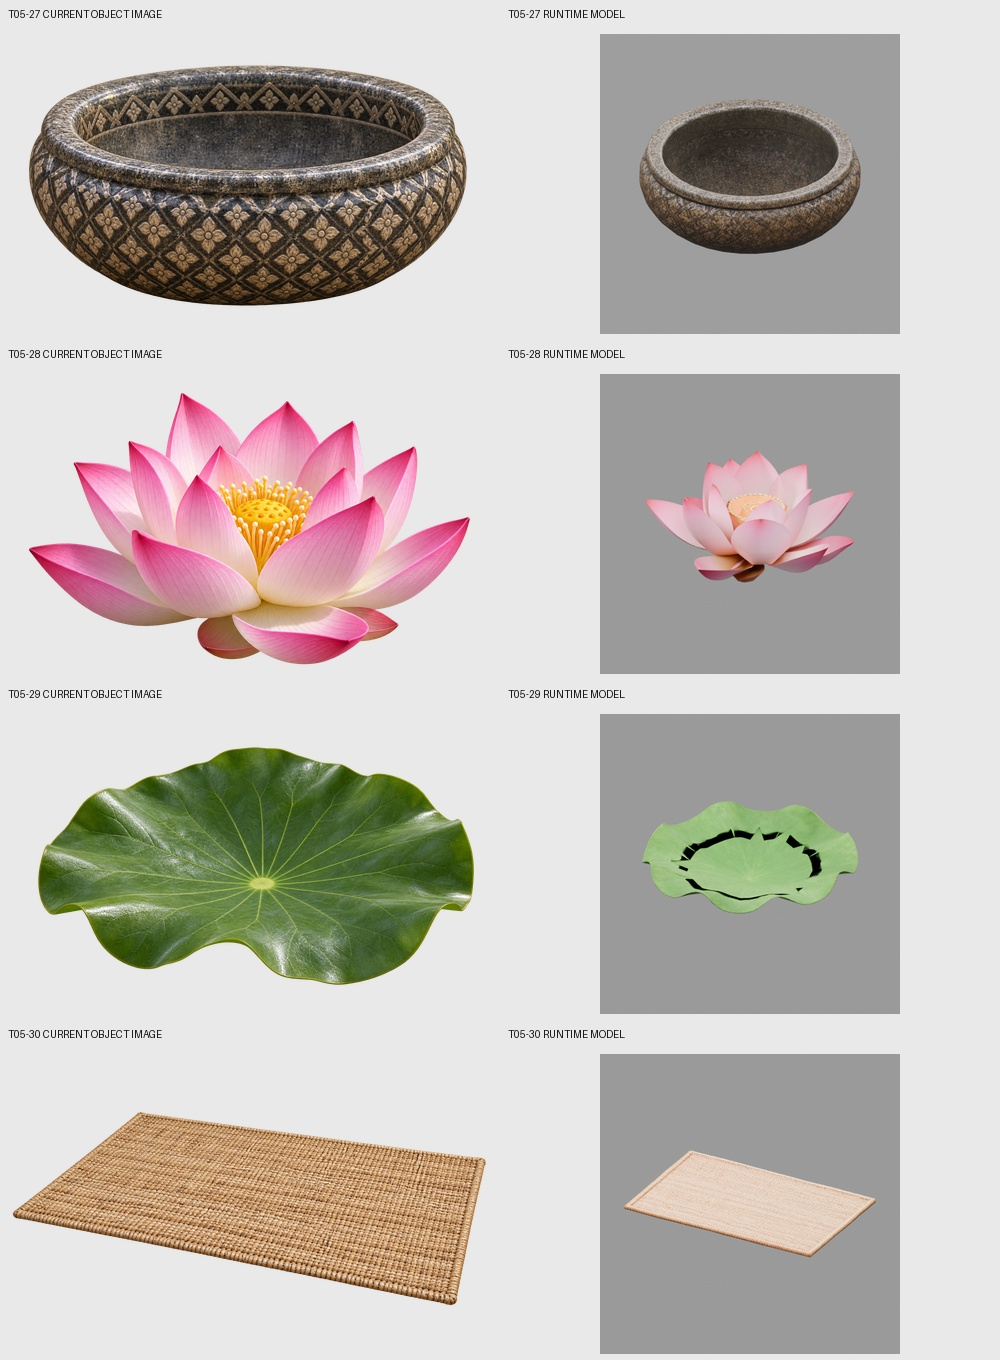
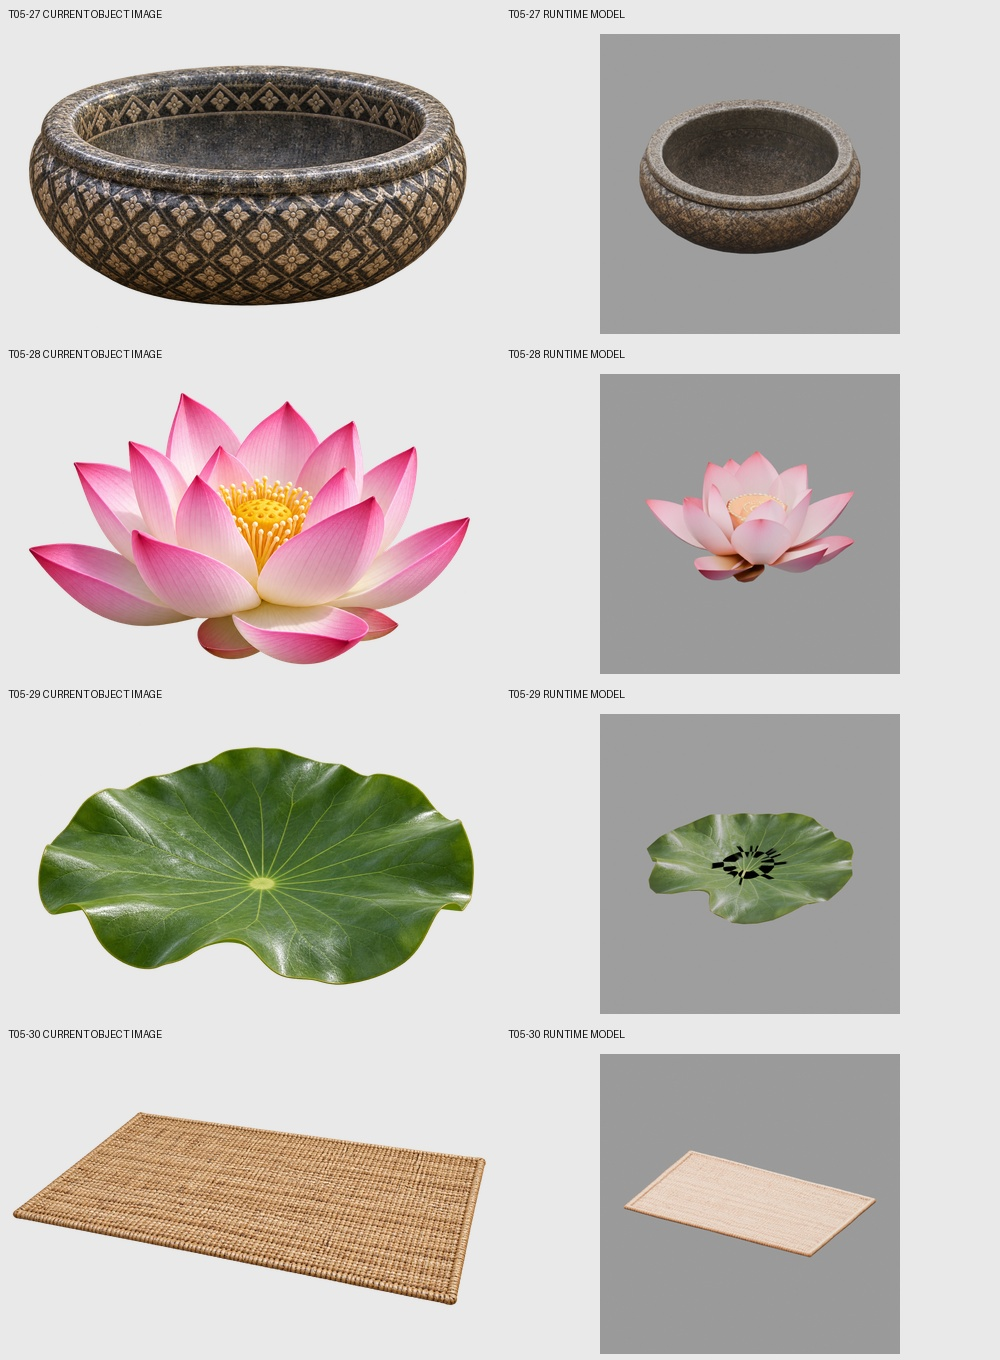
fix: restore T05 lattice screen panel and intact lotus leaf

Changed region(s): [[0.62, 0.5868, 0.868, 0.6794]]

diff --git a/reviews/models/T05/README.md b/reviews/models/T05/README.md
@@ -36,7 +36,7 @@
 
 适配版：
 
-![T05-06 prepared](T05-06/9a6f51106849/prepared/debc96e4fee7/preview.jpg)
+![T05-06 prepared](T05-06/9a6f51106849/prepared/13b529187faf/preview.jpg)
 
 ## T05-07 未点燃蜡芯
 
@@ -105,6 +105,10 @@
 ## T05-17 雕木金饰背屏
 
 ![T05-17](T05-17/1e8bb2d994ae/comparison.jpg)
+
+适配版：
+
+![T05-17 prepared](T05-17/1e8bb2d994ae/prepared/4c824ea7f41a/preview.jpg)
 
 ## T05-18 悬挂古铜空灯笼
 
@@ -178,6 +182,10 @@
 
 ![T05-29](T05-29/d9e59a18a85a/comparison.jpg)
 
+适配版：
+
+![T05-29 prepared](T05-29/d9e59a18a85a/prepared/042a9a48628e/preview.jpg)
+
 ## T05-30 天然编织地席
 
 ![T05-30](T05-30/f268ce5b516b/comparison.jpg)
@@ -196,9 +204,9 @@
 
 ## 组合验证预览
 
-![assembly](combinations/T05_floating/e9032a2af67c/preview.jpg)
+![assembly](combinations/T05_floating/a83a933acd6b/preview.jpg)
 
-[几何验证报告](combinations/T05_floating/e9032a2af67c/report.json)
+[几何验证报告](combinations/T05_floating/a83a933acd6b/report.json)
 
 ## 组合验证预览
 
@@ -268,9 +276,9 @@
 
 ## 组合验证预览
 
-![assembly](combinations/T05_wax-table/405d496207b5/preview.jpg)
+![assembly](combinations/T05_wax-table/eebaa777f9e5/preview.jpg)
 
-[几何验证报告](combinations/T05_wax-table/405d496207b5/report.json)
+[几何验证报告](combinations/T05_wax-table/eebaa777f9e5/report.json)
 
 ## 组合验证预览
 
